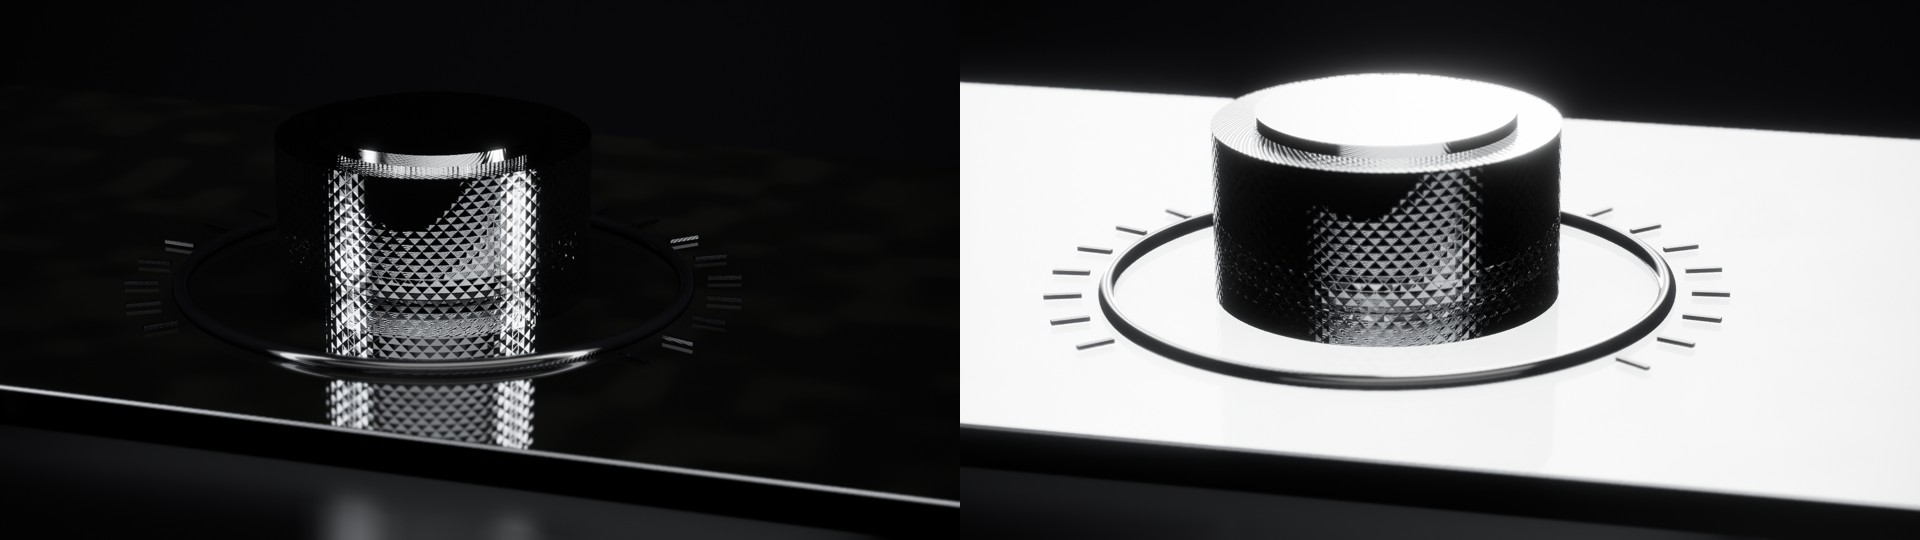
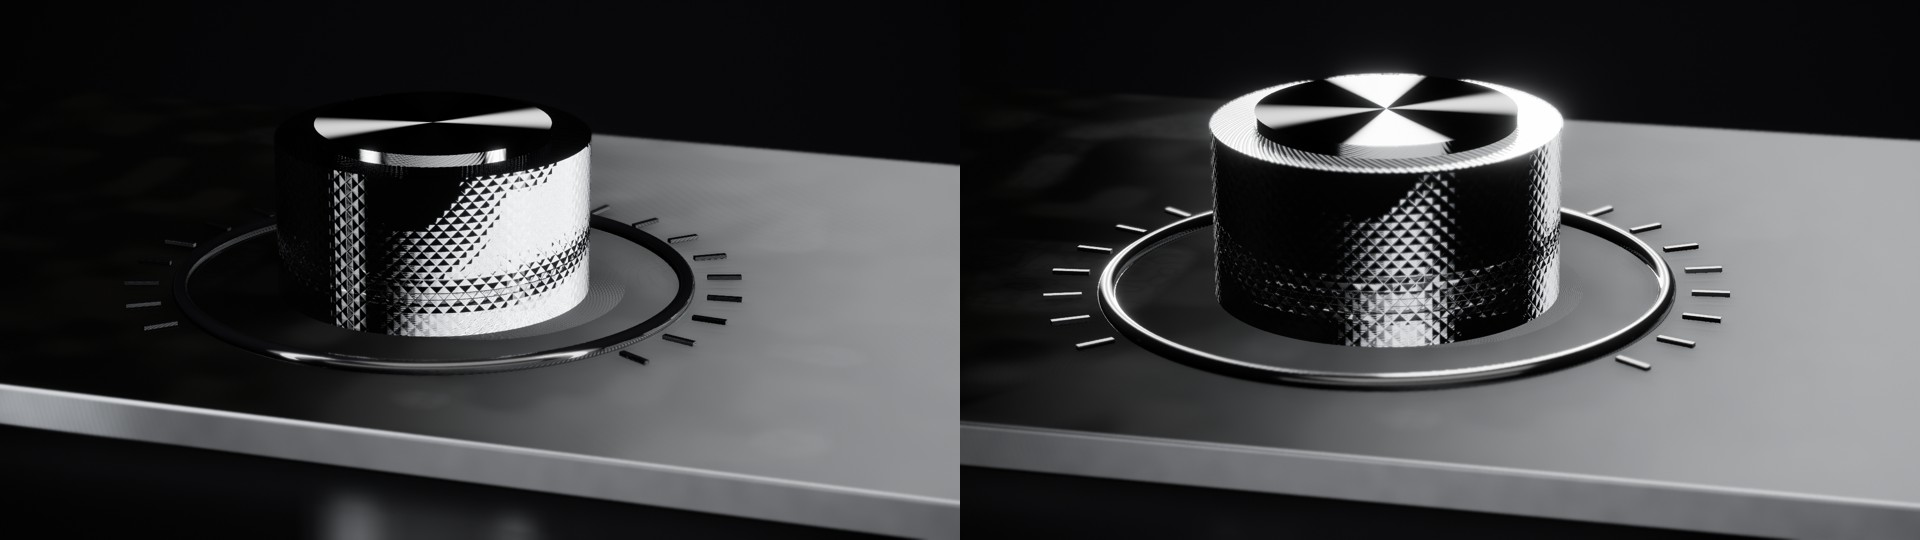
scene3d: anisotropic brushed, sunburst and spun metal (bent-normal highlights across the grain); spun pattern
Claude-Session: https://claude.ai/code/session_01YBqayaET7JSh2nx9HSb69L

diff --git a/crates/anikit-video/src/scene3d/trace.rs b/crates/anikit-video/src/scene3d/trace.rs
@@ -58,11 +58,14 @@ pub struct Material {
     /// 2 sunburst, 3 guilloché, 4 clous de Paris, 5 knurl), period in metres,
     /// strength.
     pub pattern: (u8, f32, f32),
+    /// Anisotropy 0..1: highlights stretch across the grain of the pattern
+    /// (brushed: along X; sunburst: radial; spun: around Y).
+    pub aniso: f32,
 }
 
 impl Material {
     pub fn chrome() -> Material {
-        Material { base: v3(0.94, 0.94, 0.96), metallic: 1.0, roughness: 0.06, specular: 1.0, emissive: v3(0.0, 0.0, 0.0), clearcoat: 0.0, transmission: 0.0, ior: 1.5, absorb: v3(0.0, 0.0, 0.0), tex_glow: 0.7, style: 0, pbr: 0, imperf: [0.0; 4], pattern: (0, 0.01, 0.0) }
+        Material { base: v3(0.94, 0.94, 0.96), metallic: 1.0, roughness: 0.06, specular: 1.0, emissive: v3(0.0, 0.0, 0.0), clearcoat: 0.0, transmission: 0.0, ior: 1.5, absorb: v3(0.0, 0.0, 0.0), tex_glow: 0.7, style: 0, pbr: 0, imperf: [0.0; 4], pattern: (0, 0.01, 0.0), aniso: 0.0 }
     }
 }
 
@@ -1381,7 +1384,8 @@ impl Scene {
             return self.shade_style(m, s, n, v, nv, keep, out);
         }
         let (dr, dust) = if m.imperf == [0.0; 4] { (0.0, 0.0) } else { self.imperfect(m, ob.xf.point_inv(s.p), n) };
-        let rough = (m.roughness + dr + pat_rough).clamp(0.02, 1.0);
+        // (Anisotropic streaks also soften: the grain scatters across itself.)
+        let rough = (m.roughness + dr + pat_rough + if m.pattern.0 != 0 { m.aniso * 0.14 } else { 0.0 }).clamp(0.02, 1.0);
         let f0 = lerp3(v3(0.04 * m.specular, 0.04 * m.specular, 0.04 * m.specular), m.base, m.metallic);
         let f0 = scale(f0, 1.0 - dust);
         let ab = env_brdf(rough, nv);
@@ -1396,7 +1400,10 @@ impl Scene {
         // Specular: trace the reflection; the pre-filtered environment takes
         // over for rough surfaces. On primary hits the environment part is
         // occluded later by the denoised AO (so rough metal stays clean).
-        let mut r = reflect(d, n);
+        // Anisotropic metal (brushed, spun, sunburst): bend the reflection normal
+        // toward the plane of the grain, so highlights stretch across it.
+        let n_spec = if m.aniso > 0.0 && m.pattern.0 != 0 { self.aniso_normal(m, ob, s.p, n, v) } else { n };
+        let mut r = reflect(d, n_spec);
         let rg = dot(r, ng);
         if rg < 0.01 {
             r = norm(madd(r, ng, 0.01 - rg));
@@ -1461,6 +1468,34 @@ impl Scene {
         Some((mm, ss))
     }
 
+    /// The bent normal for anisotropic reflection (the common split-sum
+    /// approximation): grain direction `t` from the pattern, in world space.
+    fn aniso_normal(&self, m: &Material, ob: &Inst, p: V3, n: V3, v: V3) -> V3 {
+        let q = ob.xf.point_inv(p);
+        let t_obj = match m.pattern.0 {
+            2 => norm(v3(q.x, 0.0, q.z)),
+            6 => norm(v3(-q.z, 0.0, q.x)),
+            _ => v3(1.0, 0.0, 0.0),
+        };
+        let t = ob.xf.rot(t_obj);
+        let t = sub(t, scale(n, dot(t, n)));
+        if dot(t, t) < 1e-8 {
+            return n;
+        }
+        let t = norm(t);
+        let at = cross(t, v);
+        let an = cross(at, t);
+        if dot(an, an) < 1e-8 {
+            return n;
+        }
+        let bent = norm(lerp3(n, norm(an), (m.aniso * 0.85).min(0.9)));
+        if dot(bent, n) < 0.05 {
+            n
+        } else {
+            bent
+        }
+    }
+
     /// Machined patterns as bump: the height field's gradient (object space,
     /// finite differences) tilts the shading normal. Patterns finer than about
     /// two pixels fade out instead of aliasing.
@@ -1490,6 +1525,8 @@ impl Scene {
                     // The ripple fades in from the centre, where it would be denser than the rings.
                     (((r + period * 0.6 * smoothstep(0.0, 12.0 * period, r) * (a * 18.0).sin()) / period) * tau).sin()
                 }
+                // Spun: concentric fine grooves around Y (speaker caps, dial centres).
+                6 => ((q.x * q.x + q.z * q.z).sqrt() / period * tau).sin() * 0.5 + (vnoise(v3((q.x * q.x + q.z * q.z).sqrt() / period * 0.37, 0.0, 0.0)) - 0.5) * 0.6,
                 // Clous de Paris: a grid of small pyramids (diagonal).
                 4 => {
                     let (u, w) = ((q.x + q.z) / period, (q.x - q.z) / period);

diff --git a/crates/anikit-video/src/scene3d/spec.rs b/crates/anikit-video/src/scene3d/spec.rs
@@ -222,7 +222,7 @@ pub fn builtin_material(name: &str) -> Option<Material> {
     })
 }
 
-const MAT_KEYS: &[&str] = &["base", "color", "metallic", "roughness", "specular", "emissive", "emissive_strength", "clearcoat", "transmission", "ior", "tint", "tint_distance", "glow", "extends", "texture", "scale", "mapping", "normal_strength", "texture_rotate", "imperfections", "roughness_variation", "smudges", "scratches", "dust", "pattern", "pattern_scale", "pattern_strength"];
+const MAT_KEYS: &[&str] = &["base", "color", "metallic", "roughness", "specular", "emissive", "emissive_strength", "clearcoat", "transmission", "ior", "tint", "tint_distance", "glow", "extends", "texture", "scale", "mapping", "normal_strength", "texture_rotate", "imperfections", "roughness_variation", "smudges", "scratches", "dust", "pattern", "pattern_scale", "pattern_strength", "anisotropy"];
 
 pub fn material(v: &Value, named: &HashMap<String, Material>, path: &str) -> Res<Material> {
     match v {
@@ -285,7 +285,7 @@ pub fn material(v: &Value, named: &HashMap<String, Material>, path: &str) -> Res
             // Machined patterns (bump): brushed, sunburst, guilloche, clous-de-paris, knurl.
             if let Some(pt) = m.get("pattern") {
                 let name = pt.as_str().ok_or_else(|| format!("{path}.pattern: expected a pattern name"))?;
-                let names = ["brushed", "sunburst", "guilloche", "clous-de-paris", "knurl"];
+                let names = ["brushed", "sunburst", "guilloche", "clous-de-paris", "knurl", "spun"];
                 let k = crate::components::kebab(name);
                 let kind = match k.as_str() {
                     "brushed" => 1,
@@ -293,6 +293,7 @@ pub fn material(v: &Value, named: &HashMap<String, Material>, path: &str) -> Res
                     "guilloche" | "guilloché" => 3,
                     "clous-de-paris" | "hobnail" => 4,
                     "knurl" | "knurled" => 5,
+                    "spun" | "circular" => 6,
                     o => {
                         let hint = crate::components::style::closest(o, &names).map(|c| format!("; did you mean `{c}`?")).unwrap_or_default();
                         return Err(format!("{path}.pattern: unknown pattern `{o}`{hint}"));
@@ -301,6 +302,13 @@ pub fn material(v: &Value, named: &HashMap<String, Material>, path: &str) -> Res
                 let sc = m.get("pattern_scale").map(|x| f(x, &format!("{path}.patternScale"))).transpose()?.unwrap_or(0.01).max(1e-5);
                 let st = m.get("pattern_strength").map(|x| f(x, &format!("{path}.patternStrength"))).transpose()?.unwrap_or(1.0).max(0.0);
                 out.pattern = (kind, sc, st);
+                // Brushed, sunburst and spun metal stretch their highlights by default.
+                if matches!(kind, 1 | 2 | 6) {
+                    out.aniso = 0.6;
+                }
+            }
+            if let Some(a) = m.get("anisotropy") {
+                out.aniso = f(a, &format!("{path}.anisotropy"))?.clamp(0.0, 1.0);
             }
             // Imperfections: one amount (a believable mix), or each by name.
             if let Some(x) = m.get("imperfections") {

diff --git a/crates/anikit-video/src/scene3d/mod.rs b/crates/anikit-video/src/scene3d/mod.rs
@@ -1647,6 +1647,10 @@ mod tests {
 
     #[test]
     fn errors_suggest_fixes() {
+        let b = spec::material(&json!({ "extends": "aluminium", "pattern": "spun" }), &HashMap::new(), "m").unwrap();
+        assert_eq!((b.pattern.0, b.aniso), (6, 0.6));
+        let c = spec::material(&json!({ "extends": "aluminium", "pattern": "brushed", "anisotropy": 0.9 }), &HashMap::new(), "m").unwrap();
+        assert_eq!(c.aniso, 0.9);
         let (o, l) = practicals(vec![json!({ "type": "practical", "shape": "tube", "pos": [0, 2, 0], "intensity": 9 }), json!({ "type": "box" })]).unwrap();
         assert_eq!((o.len(), l.len()), (2, 3));
         scene(json!({ "objects": [ { "type": "practical", "shape": "bulb", "pos": [0, 1, 0], "intensity": "=3+sin(t*5)" }, { "type": "practical", "shape": "panel", "pos": [0, 2.5, 0] } ] })).unwrap();

diff --git a/crates/anikit-video/docs-cli/3d.md b/crates/anikit-video/docs-cli/3d.md
@@ -26,7 +26,7 @@ A physical object in motivated light: a turned ceramic vessel (smooth lathe) in 
 - Objects: `text box slab plane sphere cylinder torus phone model` (glTF via `src`); `pos rot scale` take `"=expr"` with `t i n`; `keys`, `spin`, `count` (instancing).
 - **Make your own geometry** (don't settle for presets): `extrude` `{d: "<SVG path>", height, depth, bevel}` · `lathe` `{points: [[r, y], ...], segments}` · `tube` `{points | path: "=[x(s), y(s), z(s)]", radius: 0.05 | "=expr(s)"}` · `surface` `{x, y, z: "=expr(u, v)", u: [0, 1, 64], v: [...]}` · `heightfield` `{expr: "=f(x, z)", size: [w, d], res}` · `mesh` `{vertices, faces, flat}`. Expressions that use `t` re-tessellate every frame (waves, growing tubes). `{ "script": "..." }` inside `objects` generates objects. Recipe: `examples/video/lookdev/geometry.json`.
 - **Decals:** a `plane` with `"material": "decal"` + a composition `texture` (no `background`) prints type/logos on any surface.
-- **Machined finishes:** material `pattern: brushed|sunburst|guilloche|clous-de-paris|knurl`, `patternScale` (period, m). Shoot them macro (they fade to sheen below ~6 px per period).
+- **Machined finishes:** material `pattern: brushed|sunburst|spun|guilloche|clous-de-paris|knurl`, `patternScale` (period, m); brushed/sunburst/spun stretch highlights (`anisotropy` 0–1, default 0.6). Shoot them macro (they fade to sheen below ~6 px per period).
 - **Imperfections** (nothing real is perfect): material `imperfections: 0.2–0.6` or `roughnessVariation`, `smudges`, `scratches`, `dust`.
 - Materials: `chrome glass aluminium gold ceramic plastic rubber matte emissive`, or `{ base, metallic, roughness, transmission, ior, emissive, … }`; textures from compositions.
 - Camera: presets `orbit dolly crane static push reveal flyby slide arc rise topdown`, or keyed `pos target focal fstop shutter` (real DOF + motion blur). `lens: wide24|normal50|portrait85|macro100|tele135` (keeps preset framing); `focus: "objectName"` per key = rack focus; `shake: breath|handheld|shoulder|run` (rotational, fraction of frame).

diff --git a/docs/video/scene3d.md b/docs/video/scene3d.md
@@ -134,7 +134,10 @@ Watches, cameras, audio gear and tools are defined by their machined surfaces. `
 - `sunburst`: radial lines from the object's Y axis (dials);
 - `guilloche`: engine-turned waves (rings whose radius ripples with angle);
 - `clous-de-paris`: a hobnail grid of small pyramids;
-- `knurl`: crossed helical grooves (grips and crowns, on the sides of cylinders).
+- `knurl`: crossed helical grooves (grips and crowns, on the sides of cylinders);
+- `spun`: concentric fine grooves around Y (speaker caps, dial centres, lens rings).
+
+**Anisotropy.** Brushed, sunburst and spun metal stretch their highlights across the grain: brushed gives a broad sheen, spun the turned-metal bowtie, and sunburst a bar through the centre. This is on by default (`anisotropy` 0.6; 0–1 sets it, 0 turns it off). Without it, flat machined metal often reflects nothing toward the camera and reads black. Proof: `docs/video/shots/3d-patterns/anisotropy.jpg` (top row 0, bottom row 0.85).
 
 Grooves need about six pixels per period to resolve. Below that they fade into extra roughness (sheen) instead of aliasing, so frame them close: a 100 mm `macro` at f/8–11.
 
